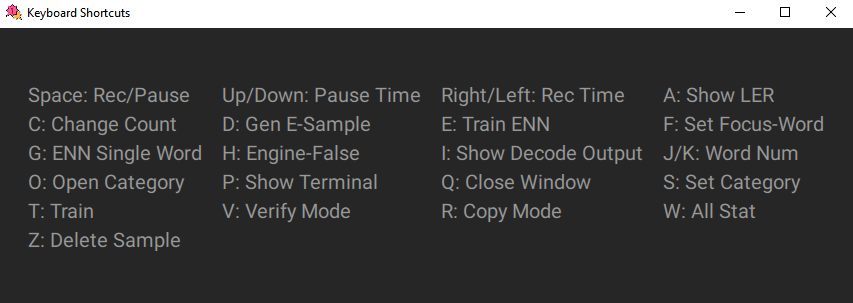
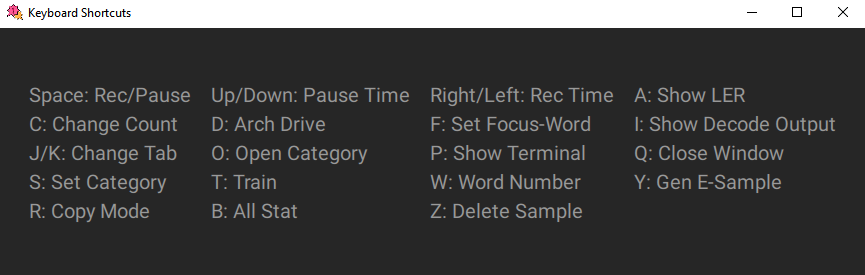
Update ArBade and Its UG Documentation

diff --git a/site/arbade/ug/index.html b/site/arbade/ug/index.html
@@ -100,7 +100,7 @@
             <div class="section" itemprop="articleBody">
               
                 <h1 id="user-guide">User Guide</h1>
-<p>Detailed description of <strong>ArBade</strong> functionalities is discussed in this document.</p>
+<p>A detailed description of <strong>ArBade</strong> functionalities is discussed in this document.</p>
 <ol>
 <li><a href="## Record">Record</a><ul>
 <li><a href="### Record Status">Record Status</a></li>
@@ -108,16 +108,21 @@
 <li><a href="### Record Shortcuts">Record Shortcuts</a></li>
 </ul>
 </li>
-<li><a href="## Train">Train Procedure</a></li>
 <li><a href="## Verify">Verify</a><ul>
 <li><a href="### Verify Status">Verify Status</a></li>
 <li><a href="### Verify Parameters">Verify Parameters</a></li>
 <li><a href="### Verify Shortcuts">Verify Shortcuts</a></li>
 </ul>
 </li>
+<li><a href="## Sleep">Sleep</a></li>
+<li><a href="## Wrong">Wrong</a></li>
+<li><a href="## False">False</a></li>
+<li><a href="## Test">Test</a></li>
+<li><a href="## Enn False">Enn False</a></li>
+<li><a href="## Console">Console</a></li>
 </ol>
 <h2 id="record">Record</h2>
-<p>While recording the samples for training voice recognition engine, you should know status, parameters and shortcuts related to recording.</p>
+<p>While recording the samples for training the voice recognition engine, you should know the status, parameters and shortcuts related to recording.</p>
 <h3 id="record-status">Record Status</h3>
 <ul>
 <li><span style="color:#f00">Rec</span>: Records your voice</li>
@@ -128,59 +133,52 @@
 </ul>
 <h3 id="record-parameters">Record Parameters</h3>
 <ul>
-<li>Category: these are directories to classify samples you record with different devices. exceptions are <code>unverified</code>, <code>online</code> and <code>efalse</code> that they are used by Benjamin.</li>
-<li>Pause Time: Break time that let you read the words before record started.</li>
-<li>Num of Words: Specify the number of words to display while recording.</li>
-<li>Rec Time: Defines the period of recording time. Tune this parameter with <code>Num of Words</code>.</li>
-<li>Count: Set this to total number of samples you want to record.</li>
-<li>Focus Word: Displayed set of words will contain the <code>Focus Word</code>.</li>
-<li>Power: After recording sample power of the voice will be displayed. Care about this parameter as this will be very low if recording device has any problem.</li>
-<li>Time: Shows how much time passed from <code>Rec Time</code></li>
-<li>Word: Shows the words you should say while recording</li>
-<li>Status: Shows recording status</li>
+<li><strong>Category</strong>: Directories to classify samples you record with different devices. exceptions are <code>unverified</code>, <code>online</code>, <code>sleep</code>, <code>wrong</code>, <code>test</code>, <code>enn</code> and <code>efalse</code> which are used internally by Benjamin.</li>
+<li><strong>Pause Time</strong>: Break time that lets you read the words before record process starts.</li>
+<li><strong>Num of Words</strong>: Specify the number of words for recording samples.</li>
+<li><strong>Rec Time</strong>: Defines the period of recording time.</li>
+<li><strong>Count</strong>: Set this to the total number of samples you want to record in a single round.</li>
+<li><strong>Focus Word</strong>: A displayed set of words will contain the <code>Focus Word</code>.</li>
+<li><strong>Power</strong>: After recording the sample power of the voice will be displayed. Care about this parameter as this will be very low if the recording device has any problem.</li>
+<li><strong>Time</strong>: Shows how much time passed from <code>Rec Time</code></li>
+<li><strong>Word</strong>: Shows the words you should say while recording</li>
+<li><strong>Status</strong>: Shows recording status</li>
 </ul>
 <h3 id="record-shortcuts">Record Shortcuts</h3>
 <ul>
-<li><code>S</code>: Set <code>Category</code>, <code>unverified</code> and <code>efalse</code> are prohibited. Dialog will be shown and ask for desired <code>Category</code>. You can create a new <code>Category</code> or change between categories produced in past.</li>
+<li><code>S</code>: Set <code>Category</code>, <code>unverified</code> and <code>efalse</code> are prohibited. A dialog will be shown and ask for the desired <code>Category</code>. You can create a new <code>Category</code> or change between categories produced in the past.</li>
 <li><code>Space</code>: Start or Pause recording.</li>
 <li><code>Up/Down</code>: Increase/Decrease <code>Pause Time</code>.</li>
 <li><code>Right/Left</code>: Increase/Decrease <code>Rec Time</code>.</li>
-<li><code>C</code>: Change count, dialog will be opened and ask for how many samples would you record.</li>
-<li><code>F</code>: Set <code>Focus Word</code>, then displayed words collection will contain <code>Focus Word</code>. Dialog will be opened and ask for id of <code>Focus Word</code>.</li>
-<li><code>J/K</code>: Decrease/Increase <code>Num of Words</code>.</li>
+<li><code>C</code>: Change count, a dialog will be opened and ask for how many samples would you record.</li>
+<li><code>F</code>: Set <code>Focus Word</code>, then the displayed words collection will contain <code>Focus Word</code>. A dialog will be opened and ask for the id of <code>Focus Word</code>.</li>
+<li><code>W</code>: Opens a dialog to ask <code>Num of Words</code>.</li>
 <li><code>O</code>: Opens selected <code>Category</code> directory.</li>
 </ul>
-<h2 id="train">Train</h2>
 <h2 id="verify">Verify</h2>
-<p>By using Benjamin regularly, many samples will be created as online samples. But these samples are not labeled correctly. There is maybe some mistakes among words from a sample. These samples are accumulated in <code>unverified</code> directory and by verifying them, they will be moved to <code>online</code> directory.</p>
+<p>By using Benjamin regularly, many samples will be created as online samples. However, these samples are not labeled correctly. There may be some mistakes among words from a sample. These samples are accumulated in <code>unverified</code> directory and by verifying them, they will be moved to <code>online</code> directory.</p>
 <p>Verification is done by playing the samples in <code>unverified</code> directory. you can refer to this section to know all status, parameters and shortcuts related to verification.</p>
-<h3 id="verify-status">Verify Status</h3>
-<ul>
-<li><span style="color:#f00">Play</span>: Play <code>unverified</code> samples</li>
-<li><span style="color:#b17400">Pause</span>: Pause the playing sample</li>
-<li><span style="color:#10b100">Stop</span>: Stop the record and navigate to statistics panel.</li>
-<li><span style="color:#b17400">Decide Pause</span>: After each sample stopped from playing, there is a short time you can decide on what should happen to the sample</li>
-<li><span style="color:#00b8d7">Break</span>: Time to let you read the words before playing started</li>
-</ul>
-<h3 id="verify-parameters">Verify Parameters</h3>
-<ul>
-<li>Pause Time: Break time that let you read the words before record started.</li>
-<li>Status: Shows playing status</li>
-<li>Focus Word: By setting this, Player will only play the samples that contain the <code>Focus Word</code>.</li>
-<li>Count: Shows how many samples are in the <code>unverified</code> directory. By setting <code>Focus Word</code>, counts only samples that contain the word.</li>
-<li>Word: Shows the words you will check in the sample</li>
-<li>Time: Shows how much time passed from voice sample</li>
-<li>Power: Before playing sample, power of the voice will be displayed. Care about this parameter as this will be very low if recording device has any problem.</li>
-<li>Category is set to <code>unverified</code> and cannot be changed. <code>Count</code> is calculated from samples statistics and you cannot change it.</li>
-</ul>
 <h3 id="verify-shortcuts">Verify Shortcuts</h3>
 <ul>
 <li><code>Space</code>: Start or Pause playing.</li>
 <li><code>Up/Down</code>: Increase/Decrease <code>Pause Time</code>.</li>
-<li><code>F</code>: Set <code>Focus Word</code>, then displayed words collection will contain <code>Focus Word</code>. Dialog will be opened and ask for id of <code>Focus Word</code>.</li>
+<li><code>F</code>: Set <code>Focus Word</code>, then the displayed words collection will contain <code>Focus Word</code>. A dialog will be opened and ask for the id of <code>Focus Word</code>.</li>
 <li><code>O</code>: Opens <code>unverified</code> directory.</li>
-<li><code>Z</code>: Press to move sample from <code>unverified</code> directory to <code>wrong</code> directory. By pressing <code>Z</code>, a dialog will be displayed and as</li>
+<li><code>Z</code>: Press to move the sample from the <code>unverified</code> directory to the <code>wrong</code> directory.</li>
+<li><code>R</code>: Changes default decision/action for verifying samples. Copy mode means after the <code>Decide Pause</code> timeout, the sample will be copied to the <code>online</code> directory. In the same way in Delete mode, timeout will cause sample removal.</li>
 </ul>
+<h2 id="sleep">Sleep</h2>
+<p>Verify samples recorded in sleep mode. In this mode listen to the recorded samples, if they contain any true samples press <code>Z</code> to get rid of them. All other samples will automatically moved to the <code>wrong</code> directory and they will be used to train the enn model.</p>
+<h2 id="wrong">Wrong</h2>
+<p>These are verified samples from the <code>sleep</code> directory. They are verified to be wrong samples, not true ones! In this mode, you will be able to review them and check if some samples are moved to this directory by accident.</p>
+<h2 id="false">False</h2>
+<p>During generating Enn samples, some of the samples in the <code>train</code> directory will not detect correctly, these samples will be moved to the <code>efalse</code> directory. In this mode, you can listen to these samples and judge whether they are real samples or the wrong ones which you should get rid of them.</p>
+<h2 id="test">Test</h2>
+<p>After training on samples, the model is evaluated through test samples. Word error rate (WER) and Sentence error rate (SER) are calculated by predicting test samples. Then false detected samples are listed in this tab and you can listen to them to figure out what went wrong.</p>
+<h2 id="enn-false">Enn False</h2>
+<p><code>BaTool</code> generates enn samples, from both train samples and wrong samples. The <code>enn</code> directory is the destination of this process. Enn files from the <code>train</code> directory are located in <code>enn/true</code> and <code>wrong</code> directory-related files are in <code>enn/false</code>. In the <code>Enn False</code> tab, only false statistics are shown. By clicking the trash icon, all Enn samples will be deleted.</p>
+<h2 id="console">Console</h2>
+<p>Training on samples is started by pressing <code>T</code>. After training is finished, a dialog pops up and asks to generate enn samples from audio samples. Neural Network will be trained from these enn samples. When generating Enn Samples is finished, another dialog arises and asks about verifying generated engine false detected samples. Engine false detected samples, abbreviated as <code>efalse</code> samples, are collected in the <code>efalse</code> directory. They are generated after training, and while testing samples in the <code>test</code> directory. You can verify them by switching to <code>False</code> and <code>Test</code> tabs.</p>
               
             </div>
           </div><footer>

diff --git a/site/arbade/index.html b/site/arbade/index.html
@@ -109,12 +109,17 @@
 <li>Building dataset for voice recognition engine by recording voice samples</li>
 <li>Handy tool to train and test voice samples</li>
 <li>Environment to verify online samples generated while using BaTool</li>
+<li>Verify samples generated in sleep mode to detect while not speeking with voice recognition engine.</li>
+<li>Review wrong words after verifying sleep samples.</li>
+<li>Verify triphone engine misclassified samples.</li>
+<li>Console environment to train on samples.</li>
 </ul>
 <h2 id="user-guide"><a href="ug/">User Guide</a></h2>
 <h1 id="quick-start">Quick Start</h1>
-<p><img alt="FirstView" src="../img/first_view.png" /></p>
+<p>ArBade has many tabs, explained in the following. To change tab click or press numbers on keyboard starting from 1.</p>
+<p><img alt="FirstView" src="../img/first_view.jpg" /></p>
 <p>ArBade is a shortcut based application. Shortcuts are listed in the application topbar.</p>
-<p><img alt="TopBar" src="../img/top_bar.png" /></p>
+<p><img alt="TopBar" src="../img/top_bar.jpg" /></p>
 <p>To see all shortcuts, press <code>/</code>.</p>
 <p><img alt="HelpWin" src="../img/help_win.png" /></p>
 <p>First step is to train a model from your voice.</p>
@@ -127,7 +132,7 @@
 <p>Start to record by pressing <code>space</code>. Say the words specified between <code>&lt;&gt;</code> while status is <code>Rec</code>.</p>
 </li>
 </ol>
-<p><img alt="Record" src="../img/record.png" /></p>
+<p><img alt="Record" src="../img/record.jpg" /></p>
 <p>You can pause the Record procedure any time by using <code>space</code> and get out of record panel by pressing <code>Escape</code>. Then Statistics will be updated.</p>
 <p><img alt="Stat" src="../img/stat.png" /></p>
 <ol>
@@ -139,14 +144,16 @@
 <p>Detailed description about record parameters and procedure can be found in the <a href="ug.md">User Guide</a></p>
 <h2 id="train-model">Train Model</h2>
 <p>After recording around <code>10 x Wordlist</code> samples, you are ready to train your model by Pressing <code>T</code>.</p>
-<p><img alt="Train" src="../img/train.png" /></p>
-<p>At any time outside of terminal, by pressing <code>P</code> you can access the results of running train scripts in terminal. All the train procedure is automatic and you should only wait for the dialog indicating train is finished and now it's ENN samples generation turn.</p>
-<p><img alt="GenENN" src="../img/gen_enn.png" /></p>
+<p><img alt="Train" src="../img/train.jpg" /></p>
+<p>At any time outside of terminal, by pressing <code>P</code> or clicking on <code>Console</code> tab, you can access the results of running train scripts in terminal. All the train procedure is automatic and you should only wait for the dialog indicating train is finished and now it's ENN samples generation turn.</p>
+<p><img alt="GenENN" src="../img/gen_enn.jpg" /></p>
+<p>And verifying engine false generated samples.</p>
+<p><img alt="EFalse" src="../img/efalse.jpg" /></p>
 <p>Detailed description about train steps and procedure can be found in <a href="ug.md">User Guide</a></p>
 <h2 id="verification">Verification</h2>
-<p>When you are using Benjamin regularly, samples will be generated when issueing commands. To use these samples, you need to assure that they are matched with the detected words. For verifying these samples you can press <code>V</code> to change the verification mode and press <code>space</code> to start verification process.</p>
-<p><img alt="Verify" src="../img/verify.png" /></p>
-<p>If the sample is wrong press <code>Z</code> to delete sample while playing, or at <code>Decide Pause</code> status after voice stopped. By default after playing each sample in <code>unverified</code> category, if there wasn't any key press, the sample will be verified. you can change this behaviour by pressing <code>R</code>.</p>
+<p>When you are using Benjamin regularly, samples will be generated when issueing commands or recorded when in sleep mode saying ordinary words. To use these samples, you need to assure that they are matched with the detected words. For verifying these samples you can switch to Verify tab and press <code>space</code> to start verification process. While verifying sleep mode samples, make sure that all words are detected wrong. Verifying </p>
+<p><img alt="Verify" src="../img/verify.jpg" /></p>
+<p>If the sample is wrong press <code>Z</code> to delete sample, while playing or at <code>Decide Pause</code> status after voice stopped. By default after playing each sample in <code>unverified</code> category, if there wasn't any key press, the sample will be verified. you can change this behaviour by pressing <code>R</code>.</p>
 <p>Detailed description about verification parameters and procedure can be found in <a href="ug.md">User Guide</a></p>
 <p>Congrats! Now you know the very initial steps to train your model!</p>
               

diff --git a/site/index.html b/site/index.html
@@ -162,5 +162,5 @@
 
 <!--
 MkDocs version : 1.4.3
-Build Date UTC : 2023-10-21 17:23:40.649032+00:00
+Build Date UTC : 2023-12-18 10:00:51.543580+00:00
 -->

diff --git a/docs/arbade/ug.md b/docs/arbade/ug.md
@@ -1,20 +1,25 @@
 # User Guide
 
-Detailed description of **ArBade** functionalities is discussed in this document.
+A detailed description of **ArBade** functionalities is discussed in this document.
 
 1. [Record](## Record)
     * [Record Status](### Record Status)
     * [Record Parameters](### Record Parameters)
     * [Record Shortcuts](### Record Shortcuts)
-2. [Train Procedure](## Train)
-3. [Verify](## Verify)
+2. [Verify](## Verify)
     * [Verify Status](### Verify Status)
     * [Verify Parameters](### Verify Parameters)
     * [Verify Shortcuts](### Verify Shortcuts)
+3. [Sleep](## Sleep)
+4. [Wrong](## Wrong)
+5. [False](## False)
+6. [Test](## Test)
+7. [Enn False](## Enn False)
+8. [Console](## Console)
 
 ## Record
 
-While recording the samples for training voice recognition engine, you should know status, parameters and shortcuts related to recording.
+While recording the samples for training the voice recognition engine, you should know the status, parameters and shortcuts related to recording.
 
 ### Record Status
 
@@ -26,59 +31,62 @@ While recording the samples for training voice recognition engine, you should kn
 
 ### Record Parameters
 
-* Category: these are directories to classify samples you record with different devices. exceptions are `unverified`, `online` and `efalse` that they are used by Benjamin.
-* Pause Time: Break time that let you read the words before record started.
-* Num of Words: Specify the number of words to display while recording.
-* Rec Time: Defines the period of recording time. Tune this parameter with `Num of Words`.
-* Count: Set this to total number of samples you want to record.
-* Focus Word: Displayed set of words will contain the `Focus Word`.
-* Power: After recording sample power of the voice will be displayed. Care about this parameter as this will be very low if recording device has any problem.
-* Time: Shows how much time passed from `Rec Time`
-* Word: Shows the words you should say while recording
-* Status: Shows recording status
+* **Category**: Directories to classify samples you record with different devices. exceptions are `unverified`, `online`, `sleep`, `wrong`, `test`, `enn` and `efalse` which are used internally by Benjamin.
+* **Pause Time**: Break time that lets you read the words before record process starts.
+* **Num of Words**: Specify the number of words for recording samples.
+* **Rec Time**: Defines the period of recording time.
+* **Count**: Set this to the total number of samples you want to record in a single round.
+* **Focus Word**: A displayed set of words will contain the `Focus Word`.
+* **Power**: After recording the sample power of the voice will be displayed. Care about this parameter as this will be very low if the recording device has any problem.
+* **Time**: Shows how much time passed from `Rec Time`
+* **Word**: Shows the words you should say while recording
+* **Status**: Shows recording status
 
 ### Record Shortcuts
 
-* `S`: Set `Category`, `unverified` and `efalse` are prohibited. Dialog will be shown and ask for desired `Category`. You can create a new `Category` or change between categories produced in past.
+* `S`: Set `Category`, `unverified` and `efalse` are prohibited. A dialog will be shown and ask for the desired `Category`. You can create a new `Category` or change between categories produced in the past.
 * `Space`: Start or Pause recording.
 * `Up/Down`: Increase/Decrease `Pause Time`.
 * `Right/Left`: Increase/Decrease `Rec Time`.
-* `C`: Change count, dialog will be opened and ask for how many samples would you record.
-* `F`: Set `Focus Word`, then displayed words collection will contain `Focus Word`. Dialog will be opened and ask for id of `Focus Word`.
-* `J/K`: Decrease/Increase `Num of Words`.
+* `C`: Change count, a dialog will be opened and ask for how many samples would you record.
+* `F`: Set `Focus Word`, then the displayed words collection will contain `Focus Word`. A dialog will be opened and ask for the id of `Focus Word`.
+* `W`: Opens a dialog to ask `Num of Words`.
 * `O`: Opens selected `Category` directory.
-
-## Train
 
 ## Verify
 
-By using Benjamin regularly, many samples will be created as online samples. But these samples are not labeled correctly. There is maybe some mistakes among words from a sample. These samples are accumulated in `unverified` directory and by verifying them, they will be moved to `online` directory.
+By using Benjamin regularly, many samples will be created as online samples. However, these samples are not labeled correctly. There may be some mistakes among words from a sample. These samples are accumulated in `unverified` directory and by verifying them, they will be moved to `online` directory.
 
 Verification is done by playing the samples in `unverified` directory. you can refer to this section to know all status, parameters and shortcuts related to verification.
-
-### Verify Status
-
-* <span style="color:#f00">Play</span>: Play `unverified` samples
-* <span style="color:#b17400">Pause</span>: Pause the playing sample
-* <span style="color:#10b100">Stop</span>: Stop the record and navigate to statistics panel.
-* <span style="color:#b17400">Decide Pause</span>: After each sample stopped from playing, there is a short time you can decide on what should happen to the sample
-* <span style="color:#00b8d7">Break</span>: Time to let you read the words before playing started
-
-### Verify Parameters
-
-* Pause Time: Break time that let you read the words before record started.
-* Status: Shows playing status
-* Focus Word: By setting this, Player will only play the samples that contain the `Focus Word`.
-* Count: Shows how many samples are in the `unverified` directory. By setting `Focus Word`, counts only samples that contain the word.
-* Word: Shows the words you will check in the sample
-* Time: Shows how much time passed from voice sample
-* Power: Before playing sample, power of the voice will be displayed. Care about this parameter as this will be very low if recording device has any problem.
-* Category is set to `unverified` and cannot be changed. `Count` is calculated from samples statistics and you cannot change it.
 
 ### Verify Shortcuts
 
 * `Space`: Start or Pause playing.
 * `Up/Down`: Increase/Decrease `Pause Time`.
-* `F`: Set `Focus Word`, then displayed words collection will contain `Focus Word`. Dialog will be opened and ask for id of `Focus Word`.
+* `F`: Set `Focus Word`, then the displayed words collection will contain `Focus Word`. A dialog will be opened and ask for the id of `Focus Word`.
 * `O`: Opens `unverified` directory.
-* `Z`: Press to move sample from `unverified` directory to `wrong` directory. By pressing `Z`, a dialog will be displayed and as
+* `Z`: Press to move the sample from the `unverified` directory to the `wrong` directory.
+* `R`: Changes default decision/action for verifying samples. Copy mode means after the `Decide Pause` timeout, the sample will be copied to the `online` directory. In the same way in Delete mode, timeout will cause sample removal.
+
+## Sleep
+
+Verify samples recorded in sleep mode. In this mode listen to the recorded samples, if they contain any true samples press `Z` to get rid of them. All other samples will automatically moved to the `wrong` directory and they will be used to train the enn model.
+
+## Wrong
+
+These are verified samples from the `sleep` directory. They are verified to be wrong samples, not true ones! In this mode, you will be able to review them and check if some samples are moved to this directory by accident.
+
+## False
+
+During generating Enn samples, some of the samples in the `train` directory will not detect correctly, these samples will be moved to the `efalse` directory. In this mode, you can listen to these samples and judge whether they are real samples or the wrong ones which you should get rid of them.
+
+## Test
+
+After training on samples, the model is evaluated through test samples. Word error rate (WER) and Sentence error rate (SER) are calculated by predicting test samples. Then false detected samples are listed in this tab and you can listen to them to figure out what went wrong.
+
+## Enn False
+
+`BaTool` generates enn samples, from both train samples and wrong samples. The `enn` directory is the destination of this process. Enn files from the `train` directory are located in `enn/true` and `wrong` directory-related files are in `enn/false`. In the `Enn False` tab, only false statistics are shown. By clicking the trash icon, all Enn samples will be deleted.
+## Console
+
+Training on samples is started by pressing `T`. After training is finished, a dialog pops up and asks to generate enn samples from audio samples. Neural Network will be trained from these enn samples. When generating Enn Samples is finished, another dialog arises and asks about verifying generated engine false detected samples. Engine false detected samples, abbreviated as `efalse` samples, are collected in the `efalse` directory. They are generated after training, and while testing samples in the `test` directory. You can verify them by switching to `False` and `Test` tabs.

diff --git a/docs/arbade.md b/docs/arbade.md
@@ -5,16 +5,22 @@ Features:
 * Building dataset for voice recognition engine by recording voice samples
 * Handy tool to train and test voice samples
 * Environment to verify online samples generated while using BaTool
+* Verify samples generated in sleep mode to detect while not speeking with voice recognition engine.
+* Review wrong words after verifying sleep samples.
+* Verify triphone engine misclassified samples.
+* Console environment to train on samples.
 
 ## [User Guide](arbade/ug.md)
 
 # Quick Start
 
-![FirstView](../img/first_view.png)
+ArBade has many tabs, explained in the following. To change tab click or press numbers on keyboard starting from 1.
+
+![FirstView](../img/first_view.jpg)
 
 ArBade is a shortcut based application. Shortcuts are listed in the application topbar.
 
-![TopBar](../img/top_bar.png)
+![TopBar](../img/top_bar.jpg)
 
 To see all shortcuts, press `/`.
 
@@ -28,7 +34,7 @@ First step is to train a model from your voice.
 
 2. Start to record by pressing `space`. Say the words specified between `<>` while status is `Rec`.
 
-![Record](../img/record.png)
+![Record](../img/record.jpg)
 
 You can pause the Record procedure any time by using `space` and get out of record panel by pressing `Escape`. Then Statistics will be updated.
 
@@ -45,21 +51,25 @@ Detailed description about record parameters and procedure can be found in the [
 
 After recording around `10 x Wordlist` samples, you are ready to train your model by Pressing `T`.
 
-![Train](../img/train.png)
+![Train](../img/train.jpg)
 
-At any time outside of terminal, by pressing `P` you can access the results of running train scripts in terminal. All the train procedure is automatic and you should only wait for the dialog indicating train is finished and now it's ENN samples generation turn.
+At any time outside of terminal, by pressing `P` or clicking on `Console` tab, you can access the results of running train scripts in terminal. All the train procedure is automatic and you should only wait for the dialog indicating train is finished and now it's ENN samples generation turn.
 
-![GenENN](../img/gen_enn.png)
+![GenENN](../img/gen_enn.jpg)
+
+And verifying engine false generated samples.
+
+![EFalse](../img/efalse.jpg)
 
 Detailed description about train steps and procedure can be found in [User Guide](ug.md)
 
 ## Verification
 
-When you are using Benjamin regularly, samples will be generated when issueing commands. To use these samples, you need to assure that they are matched with the detected words. For verifying these samples you can press `V` to change the verification mode and press `space` to start verification process.
+When you are using Benjamin regularly, samples will be generated when issueing commands or recorded when in sleep mode saying ordinary words. To use these samples, you need to assure that they are matched with the detected words. For verifying these samples you can switch to Verify tab and press `space` to start verification process. While verifying sleep mode samples, make sure that all words are detected wrong. Verifying 
 
-![Verify](../img/verify.png)
+![Verify](../img/verify.jpg)
 
-If the sample is wrong press `Z` to delete sample while playing, or at `Decide Pause` status after voice stopped. By default after playing each sample in `unverified` category, if there wasn't any key press, the sample will be verified. you can change this behaviour by pressing `R`.
+If the sample is wrong press `Z` to delete sample, while playing or at `Decide Pause` status after voice stopped. By default after playing each sample in `unverified` category, if there wasn't any key press, the sample will be verified. you can change this behaviour by pressing `R`.
 
 Detailed description about verification parameters and procedure can be found in [User Guide](ug.md)
 
